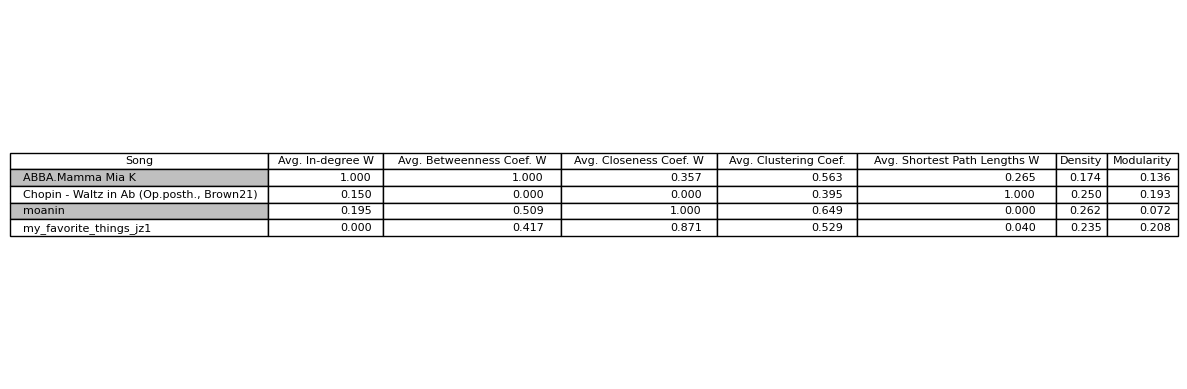
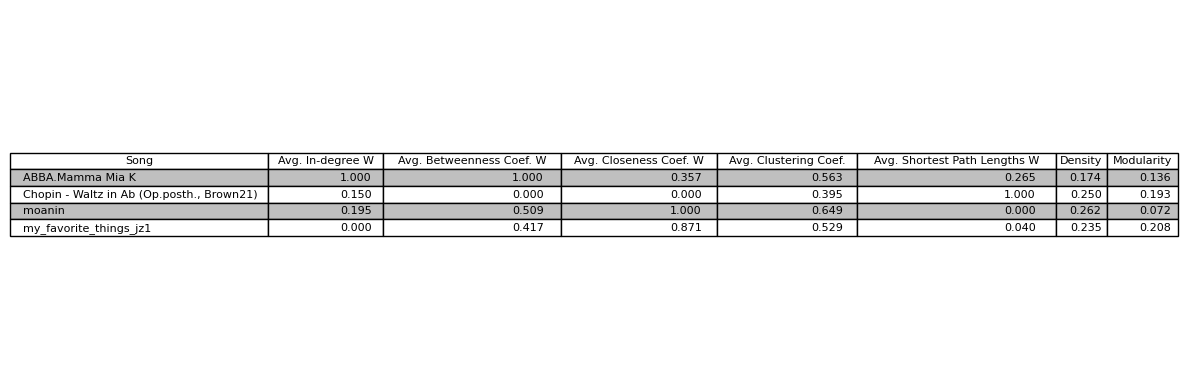
Basic version of Feature Analysis. And incorporated it in Full Analysis.

Changed region(s): [[0.2182, 0.5244, 0.9975, 0.5861], [0.2182, 0.4319, 0.9975, 0.4936]]

diff --git a/Code/Feature_Analysis.py b/Code/Feature_Analysis.py
@@ -11,8 +11,11 @@
 # It should only need minor adaptations
 # [python - How can I get the output of a matplotlib plot as an SVG? - Stack Overflow](https://stackoverflow.com/questions/24525111/how-can-i-get-the-output-of-a-matplotlib-plot-as-an-svg)
 
+import sys
 import os.path
 from os import listdir
+
+import config
 
 import networkx as nx
 import mido
@@ -21,7 +24,7 @@ import Music_Mapping
 import MIDI_general
 import Graph_metrics
 from Graph import create_graphml
-
+from Plot.Plotting_Group_Analysis import feature_table
 
 
 
@@ -176,8 +179,21 @@ def create_networks(files_directory, max_nodes = True):
 
 def feature_analysis(files_directory):
     """ Displaying a set of features for a dataset """
-    networks = create_networks(files_directory)
-    music_data(networks)
+    networks = create_networks(files_directory, max_nodes = False)
+    print("files_directory", files_directory)
+    print("len networks",len(networks))
+
+    networks_feature_list = []
+    filenames_list = []
+    # for network in networks:
+    for network, mid_file, filename, notes, notes_duration, total_ticks in networks:
+        features, feature_names, features_to_normalize = music_data(network)
+        networks_feature_list.append(features)
+        filenames_list.append(filename)
+
+    networks_features = normalize_min_max(networks_feature_list, feature_names, features_to_normalize)
+
+    feature_table(networks_features, feature_names, filenames_list, files_directory, type = None)
 
     return
 
@@ -212,4 +228,16 @@ def normalize_min_max(feature_list, feature_names, features_to_normalize):
 
 
 if __name__ == "__main__":
-    pass
+    # Directory Target
+    if len(sys.argv) == 1:
+        print("Running at Song Arena")
+        files_directory = config.ROOT + "\\SongArena" # Where the MIDI files to be analyzed are
+
+    elif len(sys.argv) == 2:
+        files_directory = config.ROOT + "\\" + sys.argv[-1] # Where the MIDI files are
+
+    else:
+        print("Too many arguments")
+        exit()
+
+    feature_analysis(files_directory)

diff --git a/Code/SongGroupAnalysis.py b/Code/SongGroupAnalysis.py
@@ -111,8 +111,6 @@ def main_analysis(files_directory):
     # Clustering #
     ##############
 
-    # Feature Table
-    # plt_analysis.feature_table(networks_feature_list, feature_names, filenames, files_directory)
 
     # Adding the features obtained through Time Window on the "Main" set of features
     # for i in range(len(networks_feature_list)):
@@ -160,11 +158,11 @@ if __name__ == "__main__":
     if len(sys.argv) == 1:
         print("Running at Song Arena")
         files_directory = config.ROOT + "\\SongArena" # Where the MIDI files to be analyzed are
-        group_name = "SongArena"
+        # group_name = "SongArena"
 
     elif len(sys.argv) == 2:
         files_directory = config.ROOT + "\\" + sys.argv[-1] # Where the MIDI files are
-        group_name = sys.argv[-1].rsplit('\\', 1)[-1] # Used to denote the folder
+        # group_name = sys.argv[-1].rsplit('\\', 1)[-1] # Used to denote the folder
 
     else:
         print("Too many arguments")

diff --git a/Code/Full_Group_Analysis.py b/Code/Full_Group_Analysis.py
@@ -16,6 +16,7 @@ And creating a folder for each on the original file or folder's directory for ea
 import sys
 from os import listdir
 import os.path
+from Feature_Analysis import feature_analysis
 from Plotting import check_dir
 
 import mido
@@ -118,9 +119,13 @@ if __name__ == "__main__":
             Plotting.degree_distribution_scatter_plot(G, filename, files_directory)
             Plotting.edges_rank(G, filename, files_directory)
 
+        # Feature Analysis
+        print_section_title("Feature Analysis")
+        feature_analysis(files_directory)
+
         # Song Group Analysis (k-means)
-        print_section_title("Song Group Analysis")
-        main_analysis(files_directory)
+        # print_section_title("Song Group Analysis")
+        # main_analysis(files_directory)
 
         # Song Comparison Plots
         # print_section_title("Song Comparison Plots")

diff --git a/Code/Plot/Plotting_Group_Analysis.py b/Code/Plot/Plotting_Group_Analysis.py
@@ -298,7 +298,7 @@ def modify_table(tab, num_rows, num_columns, row_colors = None):
     for j in range(1, num_columns):
         for i in range(1, num_rows + 1): # For each row. +1 because the column headers cells are included
             cells[i, j].set_text_props(ha = "right") # Aligning column j to the right
-        if row_colors is not None:
-            cells[i, j].set(fc = row_colors[i]) # Setting alternating colors for better readability
+            if row_colors is not None:
+                cells[i, j].set(fc = row_colors[i]) # Setting alternating colors for better readability
 
     return tab
